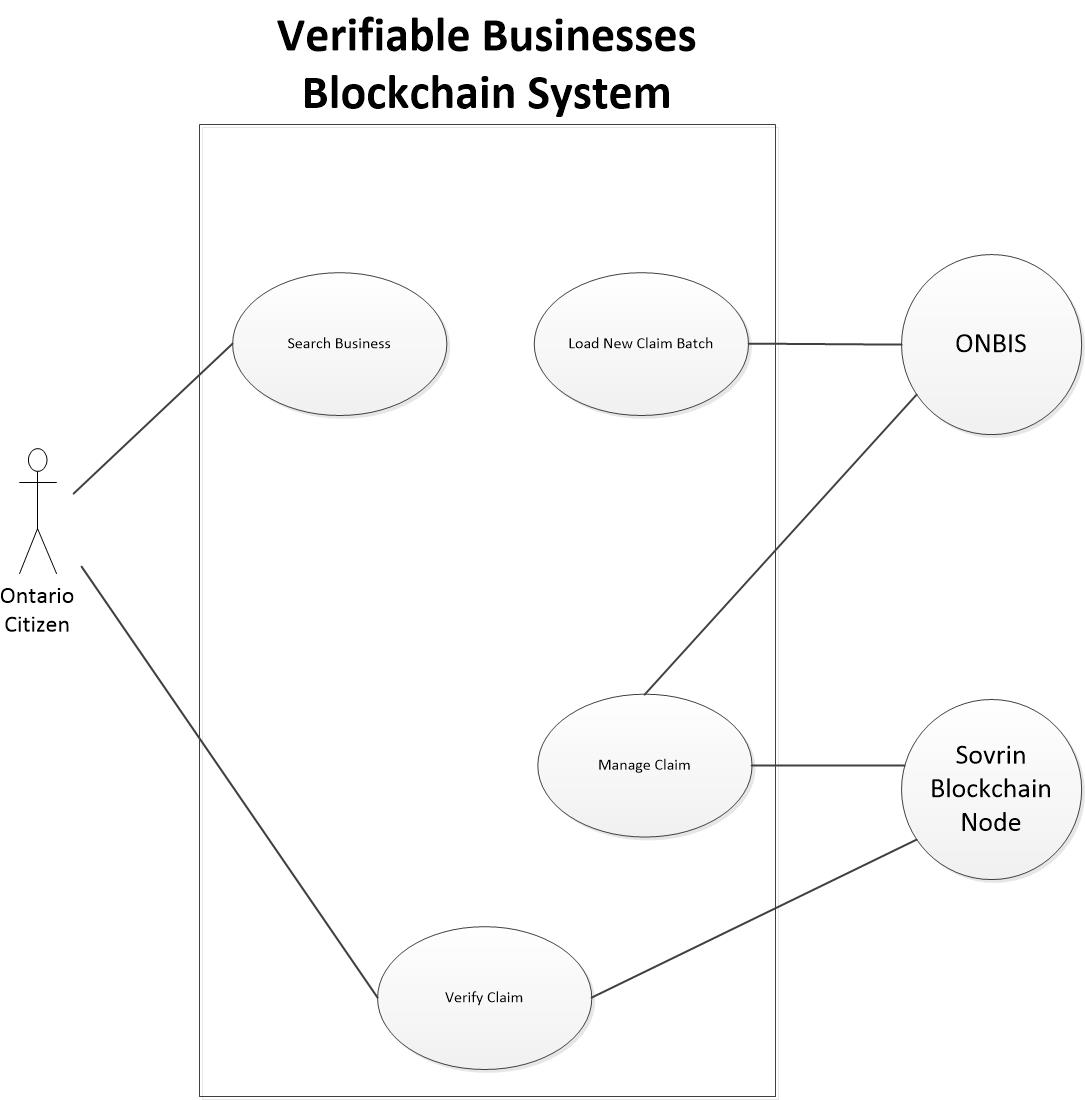
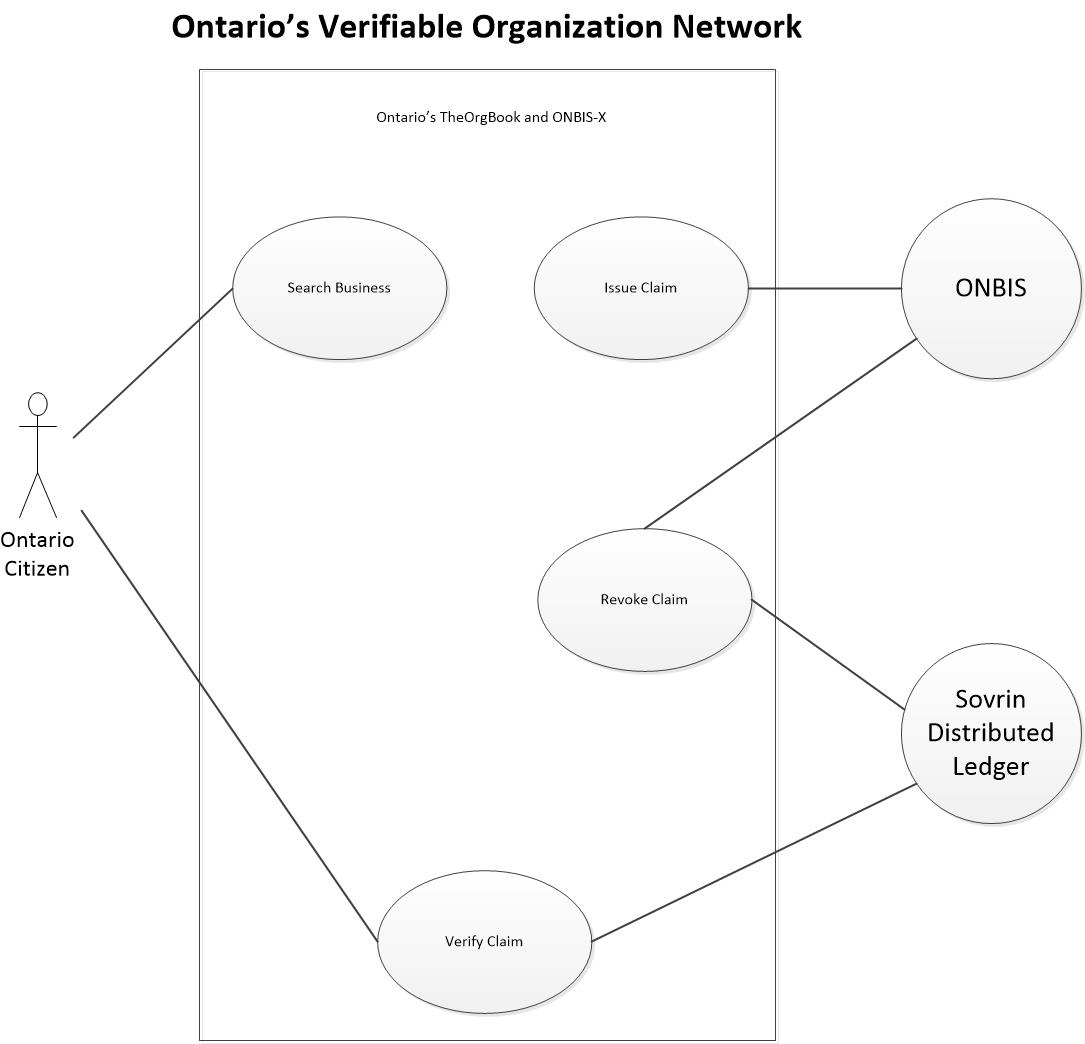
Update Ontario's pages

diff --git a/docs/_getting_started/17-ontario-architecture.md b/docs/_getting_started/17-ontario-architecture.md
@@ -20,10 +20,10 @@ Government of Ontario joined the VON Project in fall 2017 looking to explore the
 |---|---|---|
 | Search Businesses  |  A Claim Requestor (a User) enters search criteria and is returned a list of business matches based on the criteria. | Claim Requestor  |
 | Verify Claim   | The Claim Requestor selects the business and the claim and requests verification. TheOrgBook System sends the request to the Sovrin Blockchain Node which verifies the request and returns the verification information to TheOrgBook. TheOrgBook then presents the verified claim to the Claim Requestor  |  Claim Requestor |
-| Revoke Claim  | At any point the Claim Issuer may revoke a previously issued claim and through ONBIS-X Indy agent  sends a request to the Sovrin Blockchain Node to update the ledger (Specifically the Revocation Registry) in order to revoke a specific claim.  |ONBIS   |
-| Issue Claim  |  At a predetermined time, ONBIS forwards new business information as a CSV extract to a drop location (file share) where it is picked up by Informatica ETL Tool and converted into JSON format. ONBIS-X Indy agent retrieved retrieves the file and loads the new business information into TheOrgBook's searchable database and, as verificable credentials, into the enterprise wallet. | ONBIS  |
+| Revoke Claim  | At any point the Claim Issuer may revoke a previously issued claim and notifies TheOrgBook. TheOrgBook sends a request to the Sovrin Blockchain Node to update the ledger (Specifically the Revocation Registry) in order to revoke a specific claim.  |ONBIS   |
+| Load New Claim Batch  |  At a predetermined time, ONBIS forwards new business information to a drop location (file share). TheOrgBook system retrieves the file and loads the new business information. TheOrgBook then sends a request to create the claim information (key pairs, revocation information, schema) on the ledger and receives a response back. | ONBIS  |
 
-### High Level Flow Diagram 
+### High Level Flow Diagram :
 
 ![Ontario's TheOrgBook High Level Flow Diagram](Ontario-TOB-High-Level-Architecture-Diagram.jpg)
 
@@ -58,11 +58,10 @@ Ontario and BC use the same code base for TheOrgBook application stored in a sin
 
 The customizations that include the province specific UI look-n-feel and business rules for displaying data are applied dynamically at deployment through setting the TOB_THEME environmental variable in OpenShift. Sharing the same repo approach provides both teams with immediate access to all updates and enhancements in TheOrgBook's code as provided by each of them.
 
-ONBIS-X that is a copy of Indy Ref Agent customized for ONBIS issuer is stored in Ontario's ongov repo (TBC: include a link)
 
-## Ontario's TheOrgBook Architecture 
+### Ontario's TheOrgBook Architecture 
 
-There are two main components developed within the Ontario's VON Project:
+There are two core components developed within the Ontario's VON Project:
 
 **TheOrgBook** which implements a microservices architecture approach and consists of multiple sub-components, each having a specific function and running as a separate Docker container. 
 
@@ -76,7 +75,7 @@ There are two main components developed within the Ontario's VON Project:
 
 * Enterprise Wallet -  **tob-wallet** directory in TheOrgBook's repo - a configuration for Hyperledger Indy Enterprise wallet. The wallet component itself is included as a part of the von-image Docker image file.
 
-**ONBIS-X** - is built on top of Indy Ref Agent software and includes Indy SDK, Indy Enterprise Wallet, DIDAuth, configuration, schemas and schema definition for issuing 3 types of credentials - business registations, business relationships, business addresses -  based on the data in Ontario's Business Registry - ONBIS.
+
 
 
 ### Ontario's TheOrgBook Source Code Dependency Diagram 
@@ -86,6 +85,6 @@ There are two main components developed within the Ontario's VON Project:
 ### Ontario's TheOrgBook Network Architecture Diagram 
 
 
-TheOrgBook's components (Web UI, API, Database, Search Engine configuration) and ONBIS-X components (VON-X config, Wallet, DidAuth) are deployed in Government of BC's PathFinder OpenShift platform and hosted in the Kamloops data center. ONBIS application that plays the role of the Verifiable Claims Issuer is hoted within Ontario's domain.  
+TheOrgBook's components (Web UI, API, Database, Search Engine configuration) and ONBIS-X components (VON-X config, Wallet, DidAuth) are deployed to the Government of BC's PathFinder OpenShift platform and hosted in the Kamloops data center. ONBIS application that plays the role of the Verifiable Claims Issuer is hosted within Ontario's domain.  
 
 ![Ontario's TheOrgBook Network Diagram](Ontario-TOB-network-architecture-diagram.png)
